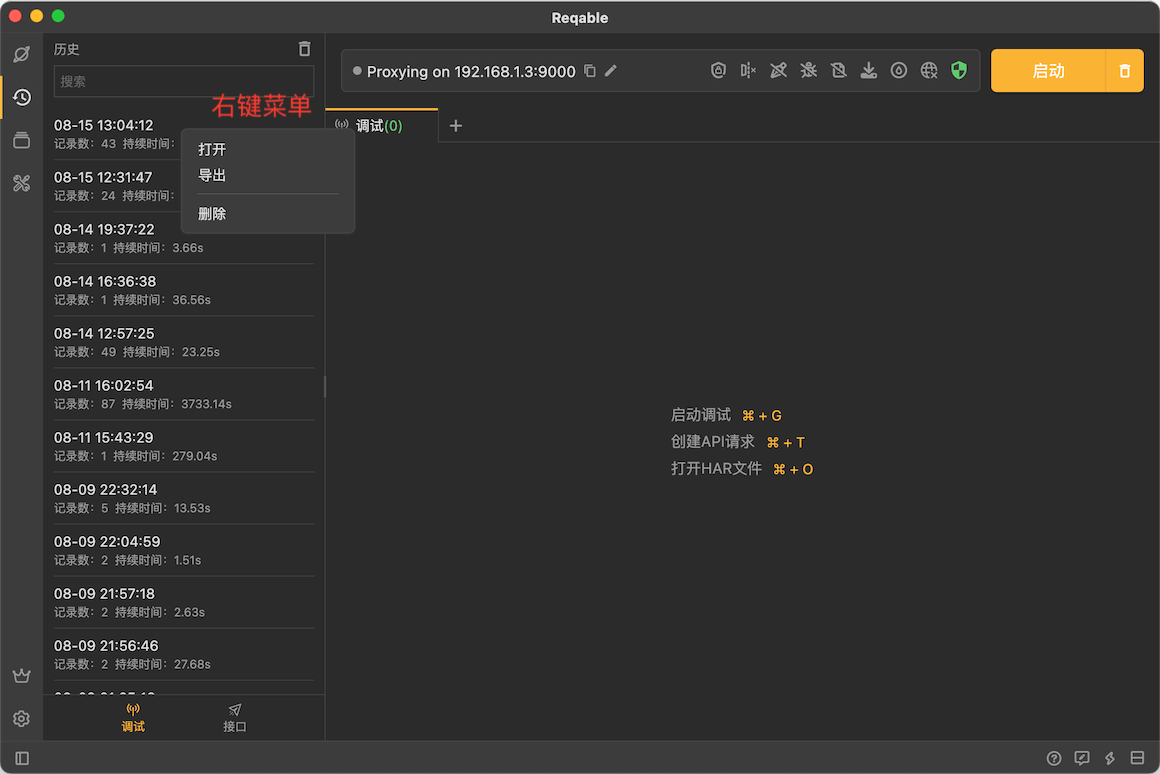
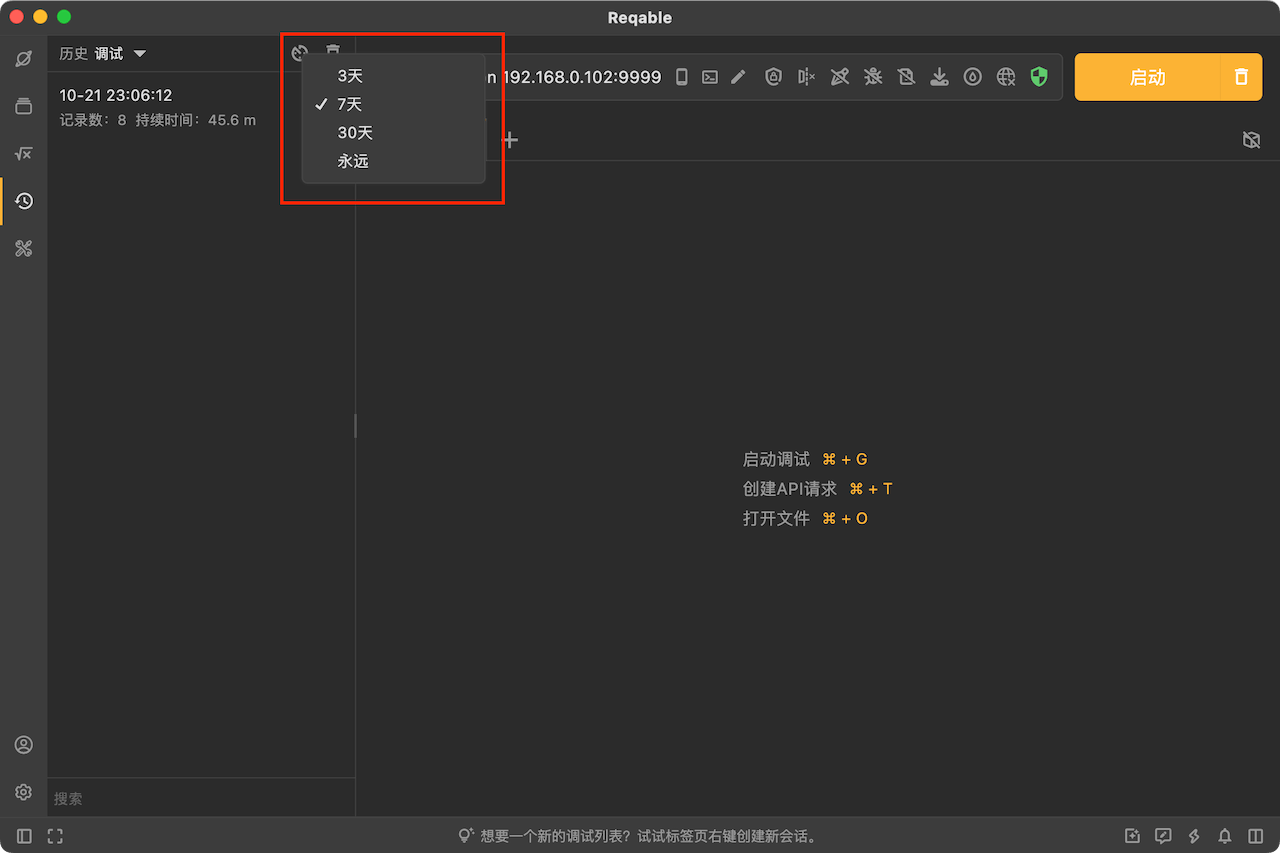
Update docs for v2.28.0

diff --git a/en-US/capture/05_tabs.md b/en-US/capture/05_tabs.md
@@ -24,6 +24,20 @@ The protocol message of the request or response is displayed in the raw tab acco
 
 ![](arts/tabs_04.png)
 
+:::caution
+If the request or response body is encoded (e.g. gzip), it will be automatically decoded and displayed here. If you need to view the original encoded data, please use the `Raw2` tab.
+:::
+
+### Raw2 {#raw2}
+
+The protocol message of the request or response is displayed in the raw tab according to the HTTP/1.1 protocol specification. The protocol message of a request includes the request line, request header and request body, and the protocol message of a response includes the status line, response header and response body.
+
+The difference from `Raw` tab is that the request body and response body show the undecoded data.
+
+:::info
+This feature is available in version v2.28.0+.
+:::
+
 ### Query {#query}
 
 The query tab displays the query parameters of a request. If a request has no query parameters, this tab will not be displayed.
@@ -79,6 +93,16 @@ The comment of request will be displayed in this tab. Users can modify and submi
 If a request is websocket, the body tab will automatically upgrade to websocket, displays the websocket frames.
 
 ![](arts/tabs_13.png)
+
+### Interceptor {#interceptor}
+
+Displays the order and details of mirroring, gateways, rewriting, breakpoints, and script execution, making it easier for users to check whether the rules are effective.
+
+![](arts/tabs_16.png)
+
+:::info
+This feature is available in version v2.28.0+.
+:::
 
 ### Early Hints {#earlyHint}
 

diff --git a/zh-CN/capture/05_tabs.md b/zh-CN/capture/05_tabs.md
@@ -24,6 +24,20 @@
 
 ![](arts/tabs_04.png)
 
+:::caution
+如果请求体或响应体是经过编码（例如gzip等）的，这里将会自动进行解码显示。如果需要查看原始的编码数据，请使用`原始2`标签页.
+:::
+
+### 原始2 {#raw2}
+
+在原始Tab中会按照HTTP/1.1的协议规范展示请求或响应的原始报文。请求原始报文包含请求行、请求头和请求体，响应原始报文包含状态行、响应头和响应体。
+
+和`原始`标签页的区别在于请求体和响应体显示未解码的数据。
+
+:::info
+使用此功能需要更新Reqable到v2.28.0及以上版本。
+:::
+
 ### 参数 {#query}
 
 在参数Tab中会显示请求的查询参数。如果请求没有查询参数，此Tab将不会显示。
@@ -85,6 +99,16 @@ Reqable支持多样化的数据展示和预览，例如JSON、XML、二进制、
 在HTTP2协议规范中，服务器在发送数据之前可能会先响应`103 Early Hints`，在此Tab中将会显示早期提示（Early Hints）的数据。如果响应中没有早期提示，此Tab将不会显示。
 
 ![](arts/tabs_14.png)
+
+### 拦截器 {#interceptor}
+
+显示镜像、网关、重写、断点和脚本执行的顺序和细节，方便用户排查规则是否生效。
+
+![](arts/tabs_16.png)
+
+:::info
+使用此功能需要更新Reqable到v2.28.0及以上版本。
+:::
 
 ### 堆栈跟踪 {#stackTrace}
 

diff --git a/en-US/capture/35_history.md b/en-US/capture/35_history.md
@@ -4,6 +4,10 @@ Reqable will automatically save traffic data to the history, this feature is ena
 
 ![](arts/autosave_01.png)
 
-When you need to review, click directly to open in the sidebar history, or right-click to select open, export or delete.
+To improve performance, Reqable will store traffic data in files, including history. If the traffic is too large or the historical data is too much, the local file storage may occupy too much space and the user needs to manually delete and clean it up. If automatic cleaning is required, you can set a suitable cache time.
 
 ![](arts/autosave_02.png)
+
+:::caution
+The default cache period for history is 7 days. However, due to historical reasons, the default configuration for early users is permanent. This may result in data not being automatically cleaned up and requires manual settings.
+:::
